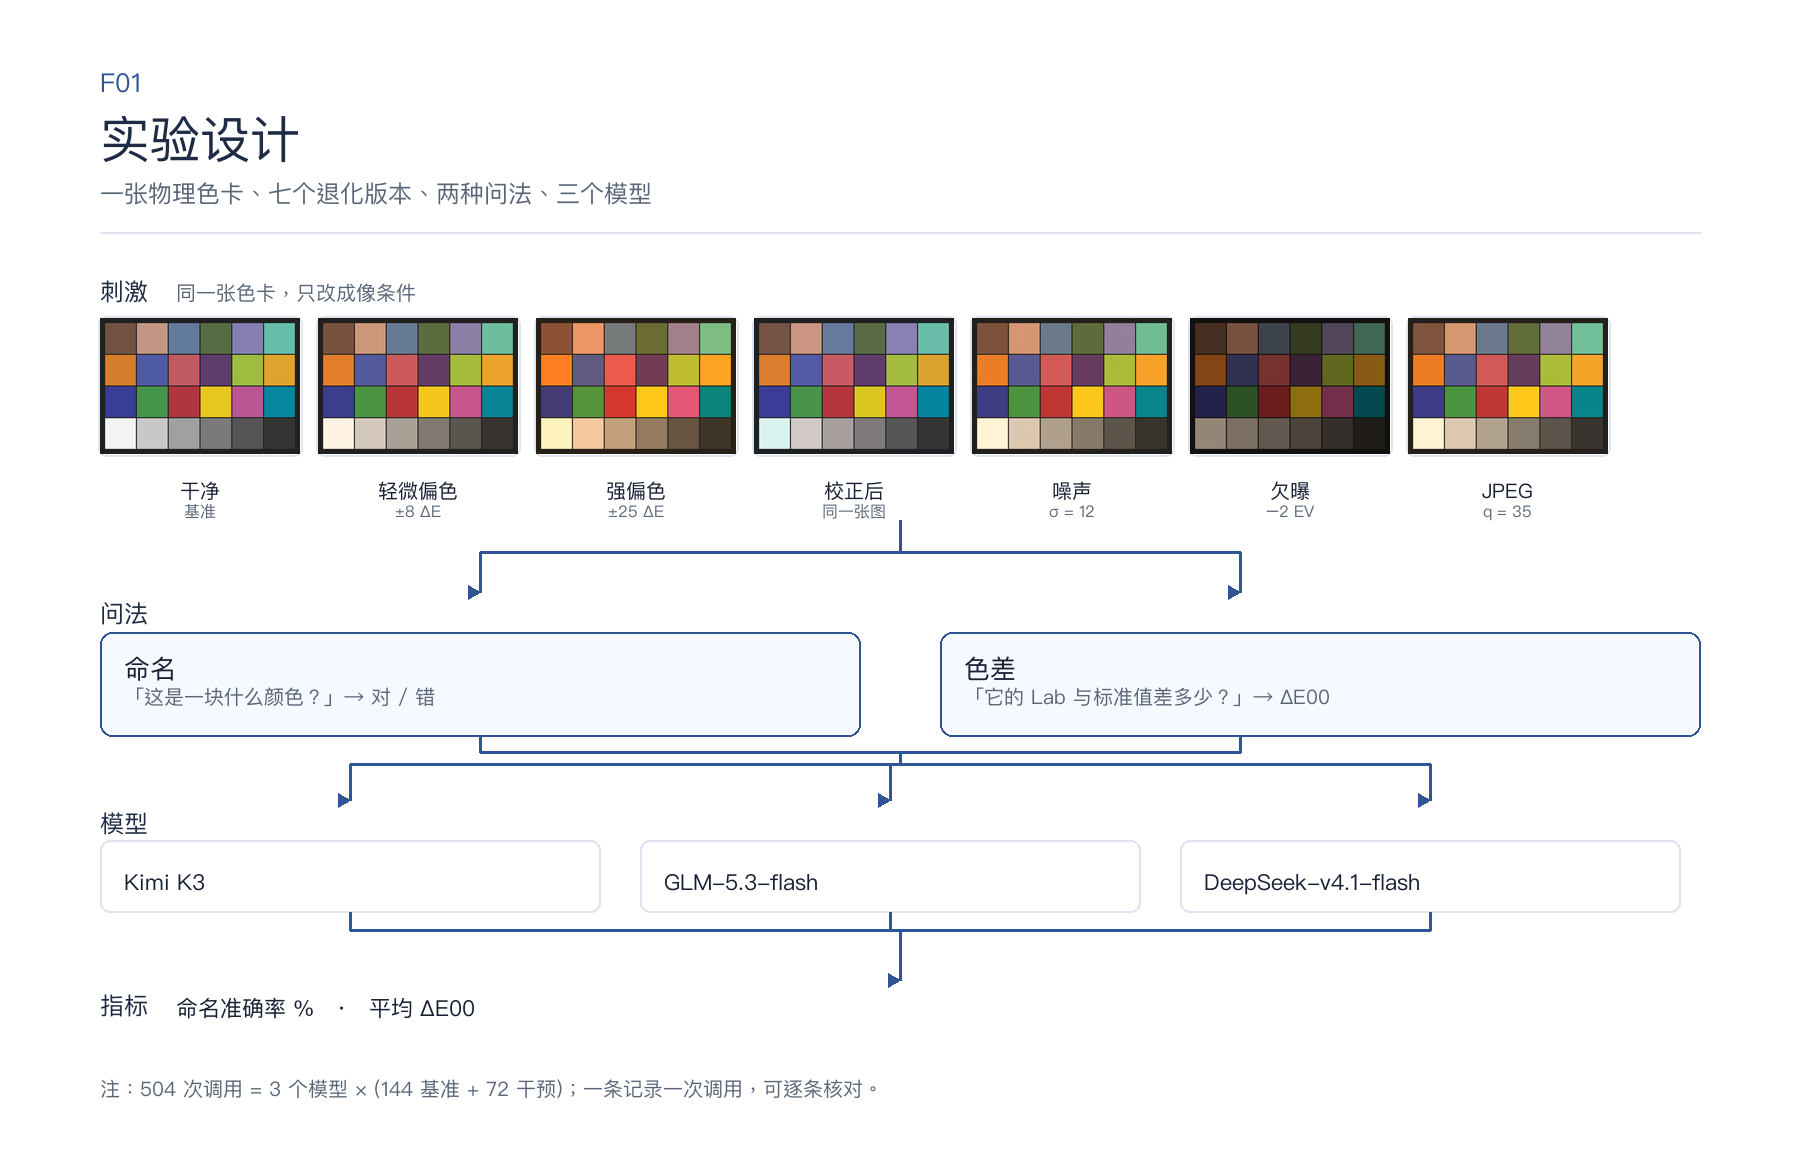
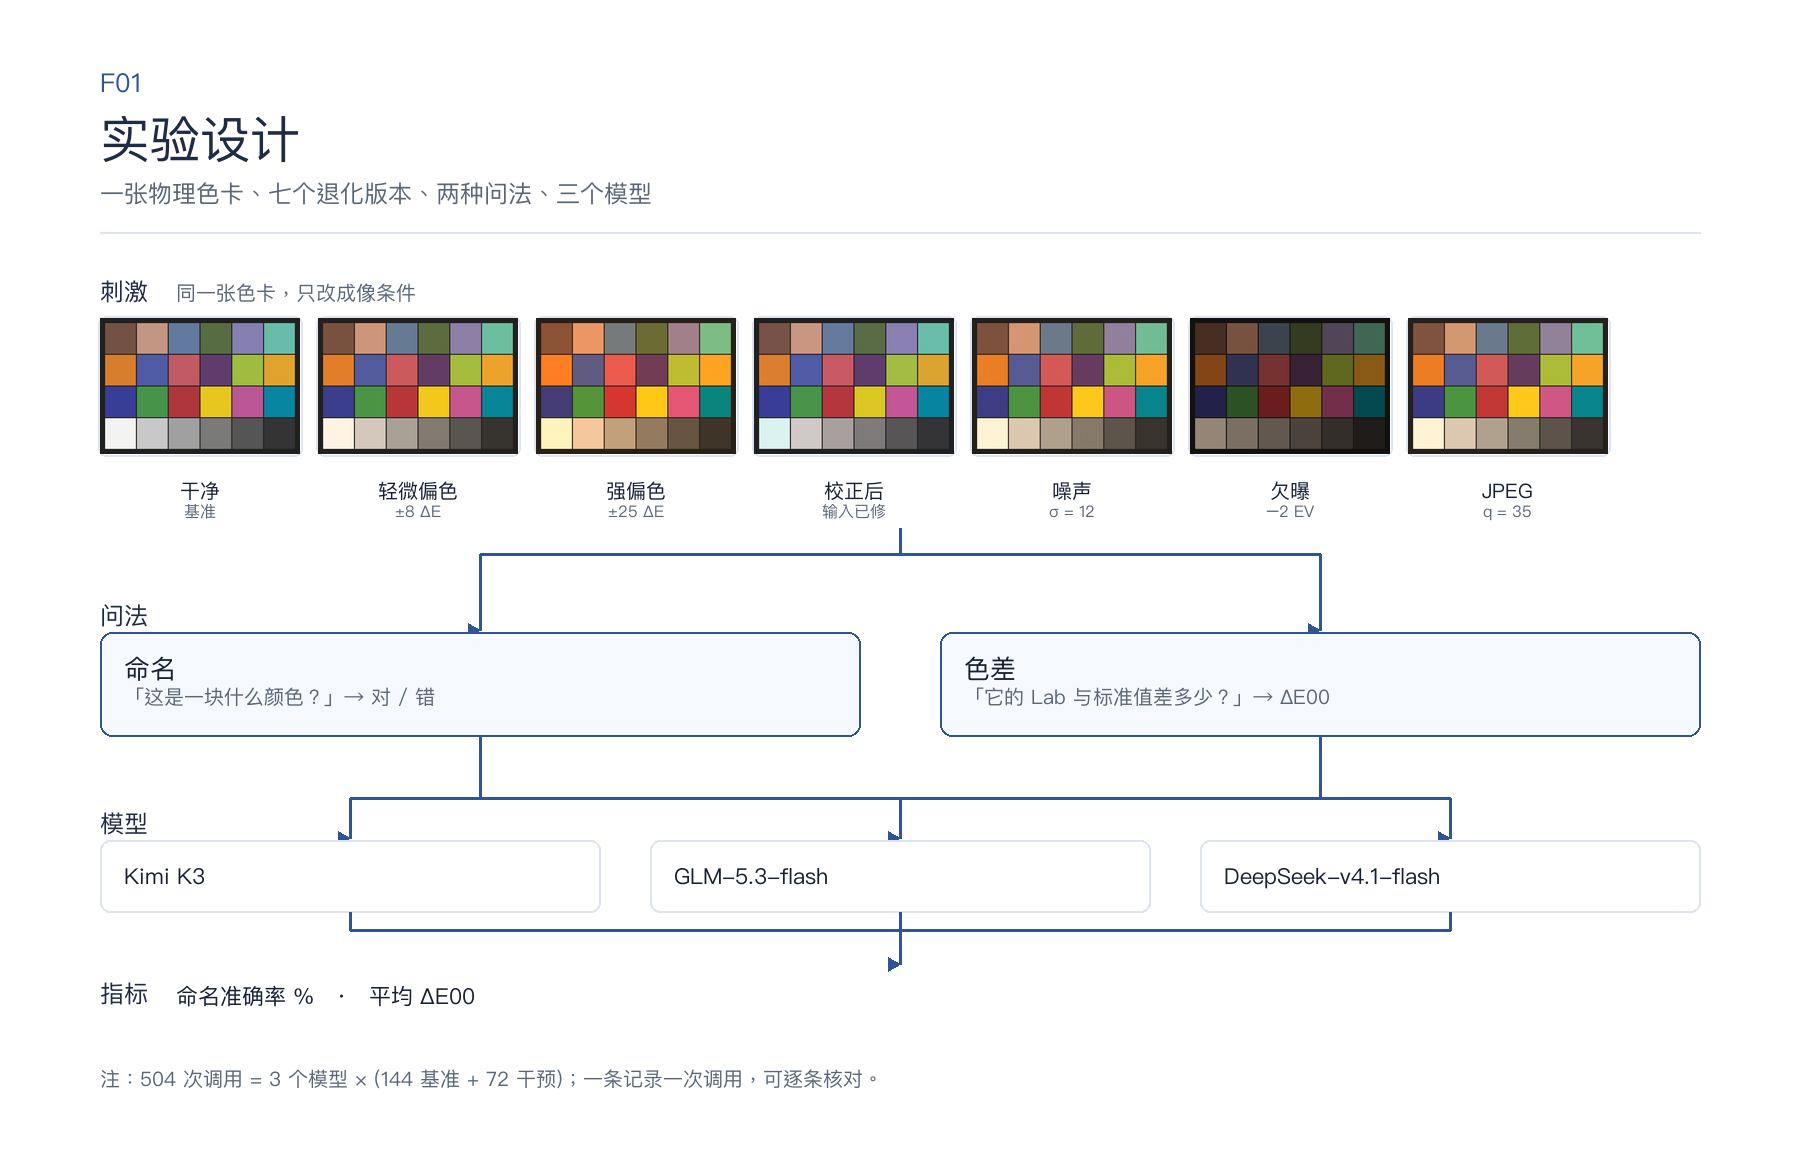
style(f01): 连线改为单一总线并按常量对齐
- 问法→模型去掉双横线，两张卡直接下落至总线
- 刺激→问法的中轴与标签留出 12px 间距
- 校正后副标注改为「输入已修」，避免压线
- 新增 04_构建脚本/README.md：出图检查清单（几何/排版/视觉/验收）

diff --git a/04_构建脚本/render_figures.py b/04_构建脚本/render_figures.py
@@ -56,7 +56,7 @@ STIMULI = [
     ("v_clean.png", "干净", "基准"),
     ("v_mild.png", "轻微偏色", "±8 ΔE"),
     ("v_strong.png", "强偏色", "±25 ΔE"),
-    ("v_strong_fixed.png", "校正后", "同一张图"),
+    ("v_strong_fixed.png", "校正后", "输入已修"),
     ("v_noise.png", "噪声", "σ = 12"),
     ("v_dark.png", "欠曝", "−2 EV"),
     ("v_jpeg.png", "JPEG", "q = 35"),
@@ -80,59 +80,72 @@ def fig_f01():
     d._image = img
     header(d, w, "F01", "实验设计", "一张物理色卡、七个退化版本、两种问法、三个模型")
 
+    M = 100                      # 左右边距
+    TW, TH, GAP = 200, 136, 18   # 缩略图
+    ROW_Y = 318
+
+    # 几何：所有连线都由这些常量推导，避免手写坐标对不齐
+    QW, QH = 760, 104
+    QX = [M, w - M - QW]                 # 100, 940
+    QC = [x + QW / 2 for x in QX]        # 480, 1320
+    QY = 632
+
+    MW, MH = 500, 72
+    MX = [M, (w - MW) / 2, w - M - MW]   # 100, 650, 1200
+    MC = [x + MW / 2 for x in MX]        # 350, 900, 1450
+    MY = 840
+
+    CX = w / 2                            # 900，整图中轴
+
     # 刺激行
-    d.text((100, 274), "刺激", font=font(24, True), fill=NAVY)
-    d.text((176, 278), "同一张色卡，只改成像条件", font=font(20), fill=MUTED)
+    d.text((M, 274), "刺激", font=font(24, True), fill=NAVY)
+    d.text((M + 76, 278), "同一张色卡，只改成像条件", font=font(20), fill=MUTED)
 
-    tw, th = 200, 136
-    gap = 18
-    x = 100
-    for i, (fname, label, sub) in enumerate(STIMULI):
-        y = 318
-        thumb(d, BASE / "experiments/colorcheck/images" / fname, (x, y), (tw, th))
-        cx = x + tw / 2
-        d.text((cx, y + th + 22), label, font=font(20, True), fill=INK, anchor="ma")
-        d.text((cx, y + th + 46), sub, font=font(16), fill=MUTED, anchor="ma")
-        x += tw + gap
+    x = M
+    for fname, label, sub in STIMULI:
+        thumb(d, BASE / "experiments/colorcheck/images" / fname, (x, ROW_Y), (TW, TH))
+        cx = x + TW / 2
+        d.text((cx, ROW_Y + TH + 22), label, font=font(20, True), fill=INK, anchor="ma")
+        d.text((cx, ROW_Y + TH + 46), sub, font=font(16), fill=MUTED, anchor="ma")
+        x += TW + GAP
 
-    # 刺激 → 问法（一分二）
-    d.line([(900, 520), (900, 552)], fill=BLUE, width=3)
-    d.line([(480, 552), (1240, 552)], fill=BLUE, width=3)
-    for cx in (480, 1240):
-        arrow(d, cx, 552, cx, 592, color=BLUE)
+    ROW_BOTTOM = ROW_Y + TH + 74          # 标签下沿再留 12px 间距
 
-    d.text((100, 596), "问法", font=font(24, True), fill=NAVY)
+    # 刺激 → 问法：中轴下行，横向汇流，再落到两张卡的中心
+    bus_y = ROW_BOTTOM + 26
+    d.line([(CX, ROW_BOTTOM), (CX, bus_y)], fill=BLUE, width=3)
+    d.line([(QC[0], bus_y), (QC[1], bus_y)], fill=BLUE, width=3)
+    for cx in QC:
+        arrow(d, cx, bus_y, cx, QY - 2, color=BLUE)
 
-    box(d, (100, 632), 760, 104, "命名", "「这是一块什么颜色？」→ 对 / 错", fill=SOFT, border=BLUE)
-    box(d, (940, 632), 760, 104, "色差", "「它的 Lab 与标准值差多少？」→ ΔE00", fill=SOFT, border=BLUE)
+    d.text((M, QY - 34), "问法", font=font(24, True), fill=NAVY)
+    box(d, (QX[0], QY), QW, QH, "命名", "「这是一块什么颜色？」→ 对 / 错", fill=SOFT, border=BLUE)
+    box(d, (QX[1], QY), QW, QH, "色差", "「它的 Lab 与标准值差多少？」→ ΔE00", fill=SOFT, border=BLUE)
 
-    # 问法 → 模型（两张卡汇入，再一分三）
-    for cx in (480, 1240):
-        d.line([(cx, 736), (cx, 752)], fill=BLUE, width=3)
-    d.line([(480, 752), (1240, 752)], fill=BLUE, width=3)
-    d.line([(900, 752), (900, 764)], fill=BLUE, width=3)
-    d.line([(350, 764), (1430, 764)], fill=BLUE, width=3)
-    for cx in (350, 890, 1430):
-        arrow(d, cx, 764, cx, 800, color=BLUE)
+    # 问法 → 模型：两张卡直接下落到模型总线，再一分三
+    m_bus = MY - 42
+    for cx in QC:
+        d.line([(cx, QY + QH), (cx, m_bus)], fill=BLUE, width=3)
+    d.line([(MC[0], m_bus), (MC[-1], m_bus)], fill=BLUE, width=3)
+    for cx in MC:
+        arrow(d, cx, m_bus, cx, MY - 2, color=BLUE)
 
-    d.text((100, 806), "模型", font=font(24, True), fill=NAVY)
+    d.text((M, MY - 34), "模型", font=font(24, True), fill=NAVY)
+    for name, bx in zip(["Kimi K3", "GLM-5.3-flash", "DeepSeek-v4.1-flash"], MX):
+        d.rounded_rectangle([bx, MY, bx + MW, MY + MH], radius=10, fill="white", outline=LINE, width=2)
+        d.text((bx + 24, MY + MH / 2), name, font=font(22, True), fill=INK, anchor="lm")
 
-    models = ["Kimi K3", "GLM-5.3-flash", "DeepSeek-v4.1-flash"]
-    for i, m in enumerate(models):
-        bx = 100 + i * 540
-        d.rounded_rectangle([bx, 840, bx + 500, 912], radius=10, fill="white", outline=LINE, width=2)
-        d.text((bx + 24, 866), m, font=font(22, True), fill=INK)
+    # 模型 → 指标：三条汇流，中轴下落
+    r_bus = MY + MH + 18
+    for cx in MC:
+        d.line([(cx, MY + MH), (cx, r_bus)], fill=BLUE, width=3)
+    d.line([(MC[0], r_bus), (MC[-1], r_bus)], fill=BLUE, width=3)
+    arrow(d, CX, r_bus, CX, r_bus + 34, color=BLUE)
 
-    # 模型 → 指标（三个模型汇入）
-    for cx in (350, 890, 1430):
-        d.line([(cx, 912), (cx, 930)], fill=BLUE, width=3)
-    d.line([(350, 930), (1430, 930)], fill=BLUE, width=3)
-    arrow(d, 900, 930, 900, 980, color=BLUE)
+    d.text((M, r_bus + 46), "指标", font=font(24, True), fill=NAVY)
+    d.text((M + 76, r_bus + 50), "命名准确率 %　·　平均 ΔE00", font=font(22), fill=INK)
 
-    d.text((100, 988), "指标", font=font(24, True), fill=NAVY)
-    d.text((176, 992), "命名准确率 %　·　平均 ΔE00", font=font(22), fill=INK)
-
-    d.text((100, 1074), "注：504 次调用 = 3 个模型 × (144 基准 + 72 干预)；一条记录一次调用，可逐条核对。",
+    d.text((M, h - 96), "注：504 次调用 = 3 个模型 × (144 基准 + 72 干预)；一条记录一次调用，可逐条核对。",
            font=font(20), fill=MUTED)
 
     img.save(OUT / "01_F01_实验设计.png", optimize=True)

diff --git a/04_构建脚本/README.md b/04_构建脚本/README.md
@@ -1,0 +1,28 @@
+# 出图检查清单
+
+每张图导出前逐条过，不合格不发。
+
+## 几何
+
+- [ ] 连线坐标由常量推导，不手写数字（框中心 = x + w/2）
+- [ ] 箭头端点落在框边或框中心线上，误差 ≤ 1px
+- [ ] 汇流线（一分多 / 多合一）的拐点与分支点在同一 y
+- [ ] 线与线不重叠成双线；T 形接头不超出 3px
+
+## 排版
+
+- [ ] 文字不溢出框、不压线、不与相邻文字重叠
+- [ ] 左右留白一致（本仓库统一 100px）
+- [ ] 画布底部不被裁切，注释距底边 ≥ 60px
+- [ ] 同类元素尺寸一致（缩略图、卡片、行高）
+
+## 视觉
+
+- [ ] 浅色底、深色字，对比度足够
+- [ ] 主色只用一种（蓝），强调色只用于结论行
+- [ ] 无大片空白；内容区占比 ≥ 70%
+
+## 验收
+
+- [ ] 导出后放大 2× 抽查两处接头（箭头 + 拐点）
+- [ ] 缩略图与正文数据一致（数字来自仓库，不手填）
